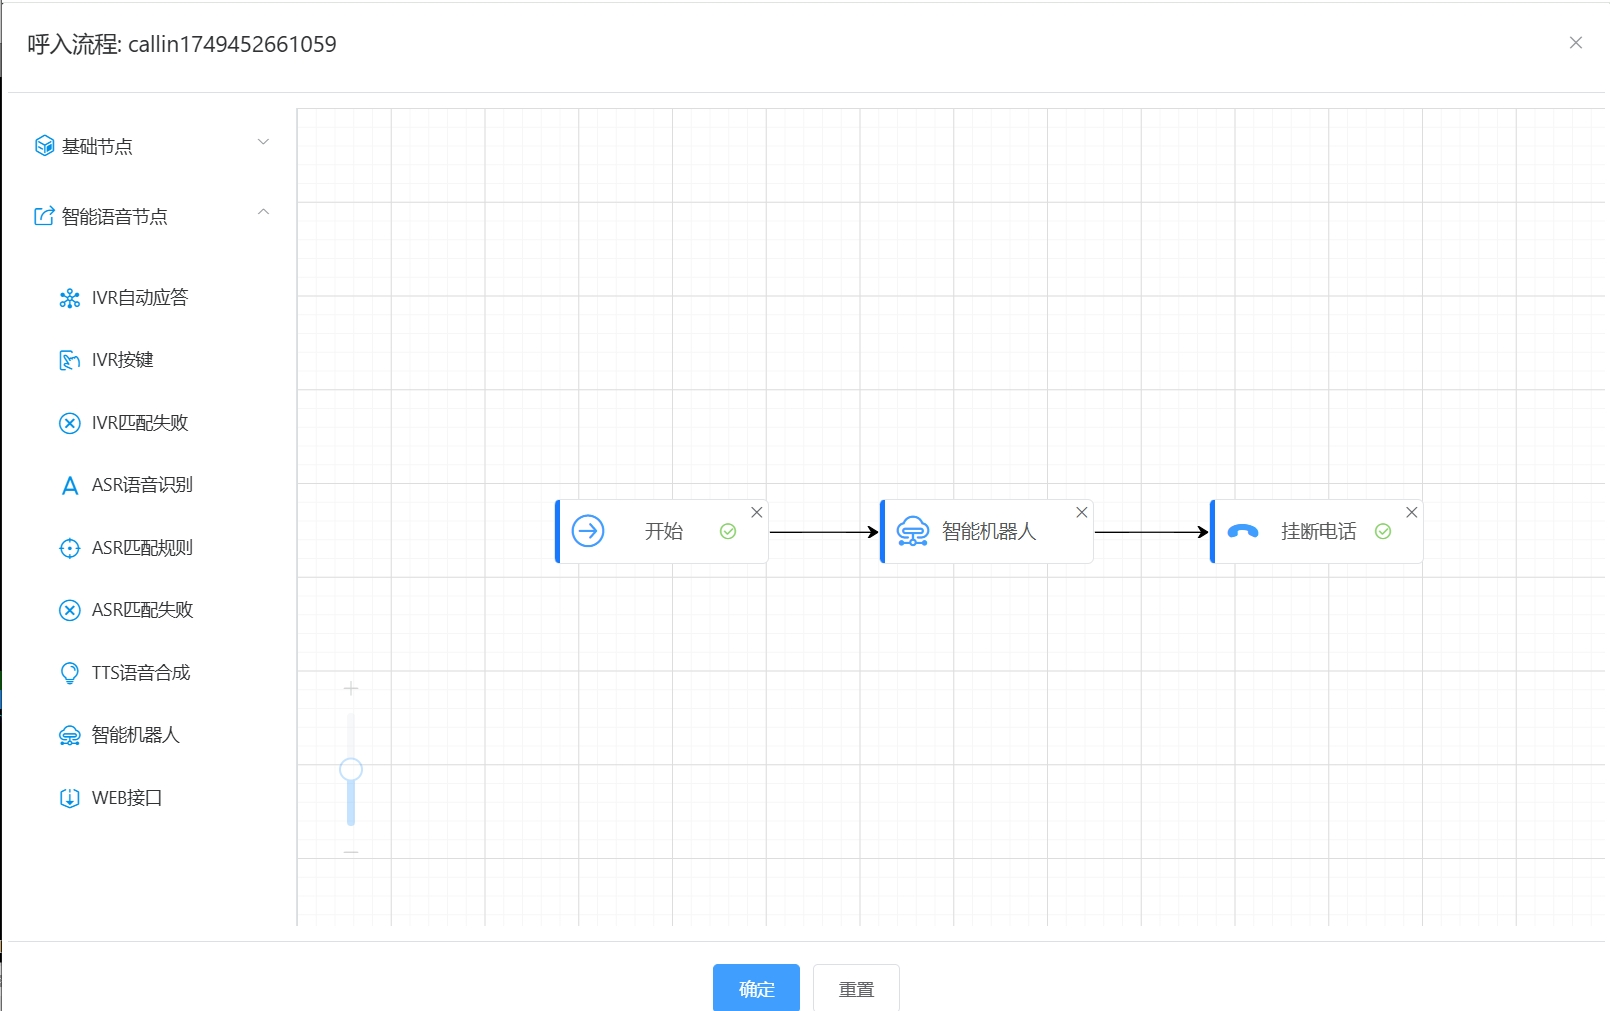
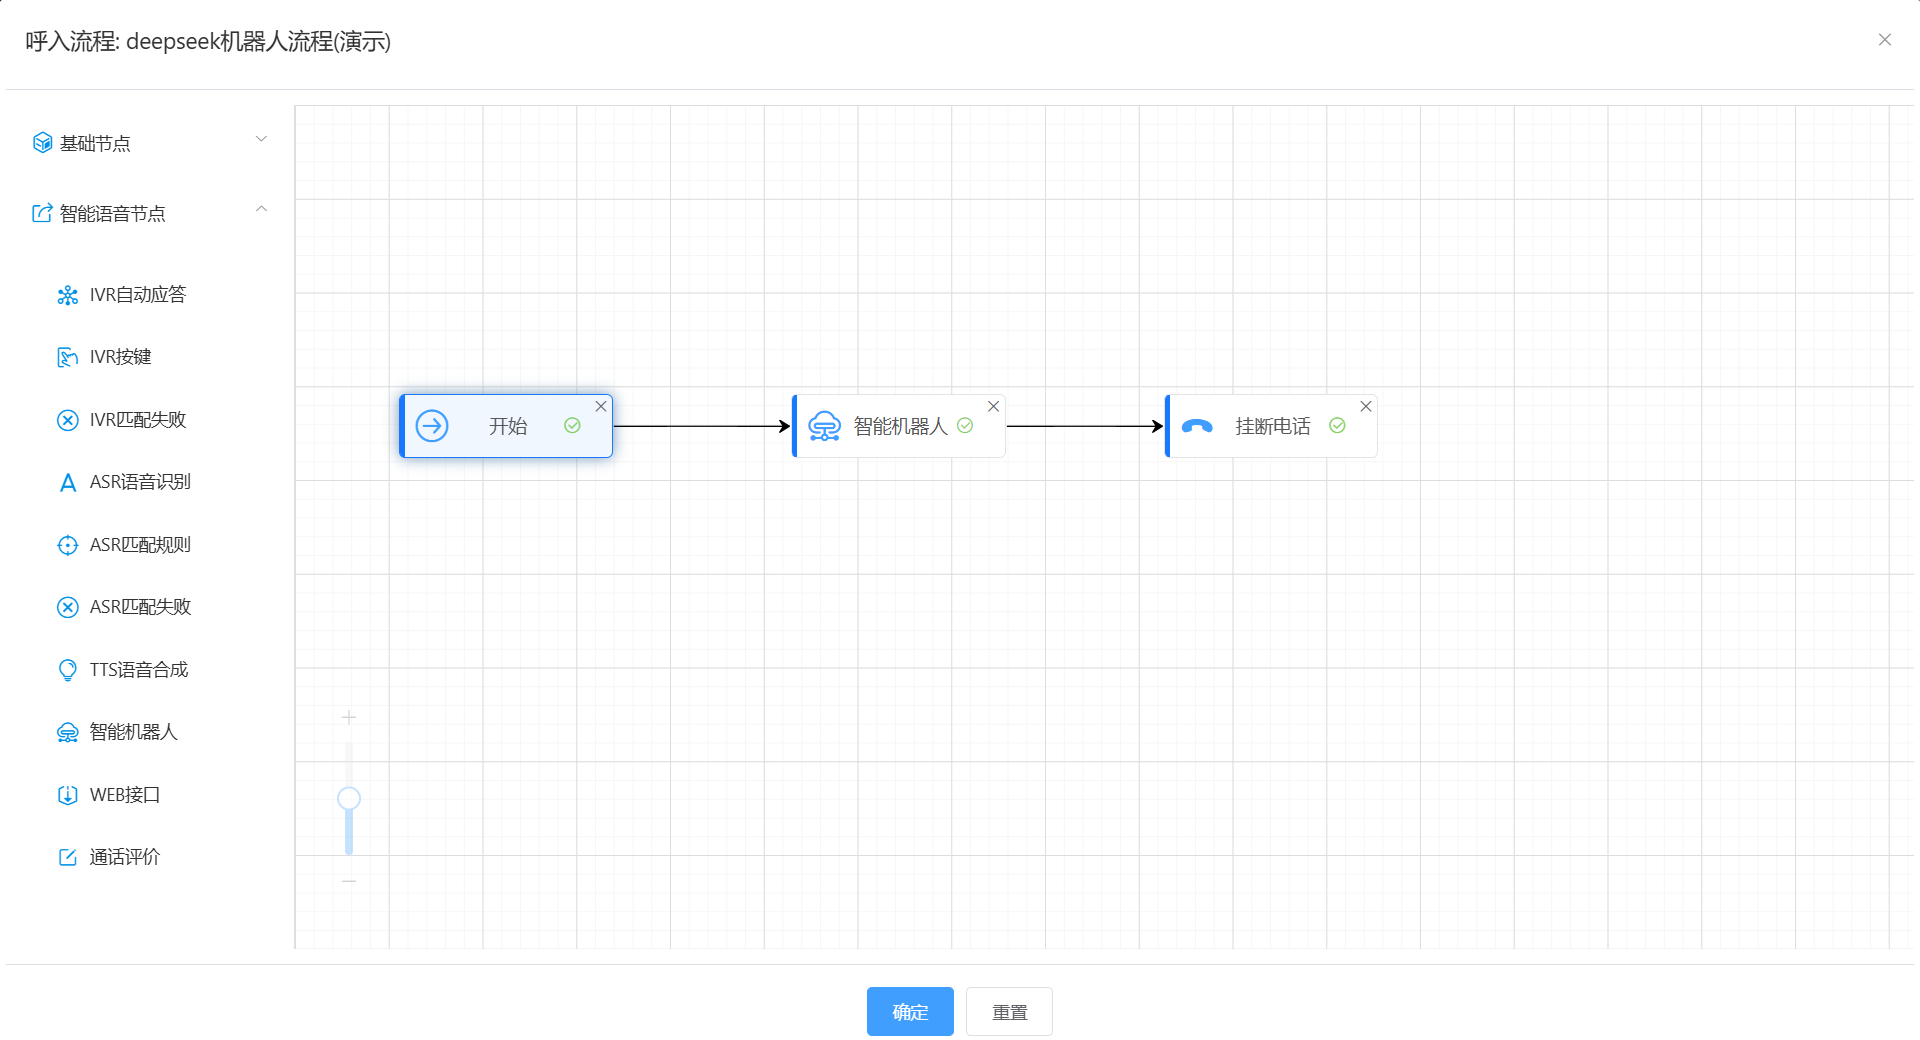
增加智能外呼等功能

diff --git a/README.en.md b/README.en.md
@@ -1,32 +1,33 @@
 # pcswitch
 
-####Introduction
+#### Introduction
 
--PCSwitch call system, permanently free to use, supports intelligent robots (using Deepseek interface), web interface (accessing other systems), ASR (speech recognition), TTS (speech synthesis), custom voice robots webRTC、IVR、 Inbound queue, inbound process visualization management, call evaluation, IP whitelist, customizable fields for customer information, and more
--Official website:[ https://www.pcswitch.cn ]( https://www.pcswitch.cn )
--Trial URL:[ https://demo.pcswitch.cn ]( https://demo.pcswitch.cn )
-
-
-####Software Architecture
-
--Front end: using Vue+elementUI
--Backend: Developed using Golang language
--Bottom layer: Adopting Freeswitch and undergoing secondary development
--Data layer: using Redis, Mariadb, and MongoDB
+- PCSwitch call system, permanently free to use, supports intelligent robots (using Deepseek interface), ASR (speech recognition), TTS (speech synthesis), web interface (accessing other systems), webRTC, Visual incoming call process management, voice robots webRTC、IVR、 Inbound queue, inbound process visualization management, call evaluation, IP whitelist, customizable fields for customer information, and more
+- Official website:[ https://www.pcswitch.cn ]( https://www.pcswitch.cn )
+- Trial URL:[ https://demo.pcswitch.cn ]( https://demo.pcswitch.cn )
 
 
-###System functions
+#### Software Architecture
+
+- Front end: using Vue+elementUI
+- Backend: Developed using Golang language
+- Bottom layer: Adopting Freeswitch and undergoing secondary development
+- Data layer: using Redis, Mariadb, and MongoDB
+
+
+### System functions
 1. Support intelligent robots (using Deepseek interface) and web interfaces (accessing other systems)
-2. Supports ASR (speech recognition), TTS (speech synthesis), and customizable speech robots
-3. Supports multiple client types, including webRTC and SIP clients
-4. Support static and dynamic seating
-5. Supports multi tenant mode, the free version is only open to one organization
-6. Support IVR, incoming queue, time judgment, IP whitelist, call evaluation, etc
-7. The incoming call rule adopts visual configuration, which is easy to operate
-8. Support custom customer information, allowing for the addition, reduction, and modification of field information at will
-9. The call record table adopts an automatic sorting design, and a single table can accommodate 20 pieces of data
+2. Support intelligent outbound calls (modular visual management) and batch scheduled outbound calls
+3. Supports ASR (speech recognition), TTS (speech synthesis), and customizable speech robots
+4. Supports multiple client types, including webRTC and SIP clients
+5. Support static and dynamic seating
+6. Supports multi tenant mode, the free version is only open to one organization
+7. Support IVR, incoming queue, time judgment, IP whitelist, call evaluation, automatic addition of 0 to remote numbers, etc
+8. The incoming call rule adopts modular visual configuration, which is easy to operate
+9. Support custom customer information, allowing for the addition, reduction, and modification of field information at will
+10. The call record table adopts an automatic sorting design, and a single table can accommodate 2 billion pieces of data
 
-####Installation tutorial
+#### Installation tutorial
 1. The installation package download address is: https://pan.baidu.com/s/1ZvH6sjthjIcqa2Ygx76N8A?pwd=6t59
 2. It is recommended to install using CentOS or Rocky operating systems
 3. Download the pcswitch installation package
@@ -55,7 +56,7 @@ The certificate storage path is: data/core/credits
 Delete dtls strp.pem and wss.tem
 Merge the certificate key and CRT into: wss.tem, and store it in the data/core/credits directory as follows:
 #cat server.key server.crt > wss.pem
-Restart the service
+Restart service
 #. /pcs_cli restart core
 
 ```
@@ -69,30 +70,31 @@ At present, only Alibaba Cloud Intelligent Voice has been connected, and Alibaba
 11. Intelligent robots
 The intelligent robot adopts the Deepseek interface. However, due to the lack of stream mode and the relatively long return time of Deepseek, the intelligent robot currently needs to wait for some time during conversations. It is recommended to use private deployment of DeepSeek for production environments, while training models for specific environments.
 
-####Instructions for use
+#### Instructions for use
 
 1. This version is a free version, and the system has been initialized and configured after installation, including 3 extensions, etc
 2. The system defaults to using private certificates, which users can replace with official certificates
 3. The system does not have a gateway configured by default, and users need to configure the gateway themselves
 4. Default account/password: admin/a2f55ef976bcf8b0ae
 
-####System Display
+#### System Display
 1. Login interface
-! [Enter image description] (images/20250411153349. png)
+![Enter image description](images/logon.png)
 2. WebRTC registration
-! [Enter image description] (images/20250411153431. png)
+![Enter image description](images/front.png)
 3. Pop up screen for incoming calls
-! [Enter image description] (images/20250713. png)
+![Enter image description](images/ringing.png)
 4. Backend management
-! [Enter image description] (images/20250516132532. png)
+![Enter image description](images/backend.png)
 5. Visualization configuration of incoming call rules
-! [Enter image description] (images/20250516132751. png)
+![Enter image description](images/base.png)
 6. ASR and TTS processes
-! [Enter image description] (images/asrttspng)
+![Enter image description](images/asrtts.png)
 7. Intelligent robots
-! [Enter image description] (images/robot. png)
-8. Web interface
-! [Enter image description] (images/web. png)
+![Enter image description](images/robot.png)
+8. Intelligent outbound call
+![Enter image description](images/intellcallout.png)
+![Enter image description](images/intellcalloutflow.png)
 
 ####Problem feedback
 

diff --git a/README.md b/README.md
@@ -2,7 +2,7 @@
 
 #### 介绍
 
-- pcswitch呼叫系统，永久免费使用，支持智能机器人(采用deepseek接口)、web接口(访问其他系统)、ASR(语音识别)、TTS(语音合成)、自定义语音机器人、webRTC、IVR、呼入队列、呼入流程可视化管理、通话评价、IP白名单、客户资料可自定义字段等等
+- pcswitch呼叫系统，永久免费使用，支持智能机器人(采用deepseek接口),ASR(语音识别),TTS(语音合成),web接口(访问其他系统),webRTC,可视化呼入流程管理,语音机器人、webRTC、IVR、呼入队列、呼入流程可视化管理、通话评价、IP白名单、客户资料可自定义字段等等
 - 官网：[https://www.pcswitch.cn](https://www.pcswitch.cn)
 - 试用网址：[https://demo.pcswitch.cn](https://demo.pcswitch.cn)
 
@@ -17,14 +17,15 @@
 
 ### 系统功能
 1. 支持智能机器人(采用deepseek接口)、web接口(访问其他系统)
-2. 支持ASR(语音识别)、TTS(语音合成)，可自定义语音机器人
-3. 支持多种客户端类型，包括：webRTC、sip客户端
-4. 支持静态坐席、动态坐席
-5. 支持多租户模式，免费版本只开放了1个组织
-6. 支持IVR、呼入队列、时间判断、IP白名单、通话评价等
-7. 呼入规则采用可视化配置，操作方便
-8. 支持自定义客户信息，可随意增加、减少、修改字段信息
-9. 通话记录表采用了自动分表设计，单表可容纳20条数据
+2. 支持智能外呼(模块化可视化管理)、批量定时外呼
+3. 支持ASR(语音识别)、TTS(语音合成)，可自定义语音机器人
+4. 支持多种客户端类型，包括：webRTC、sip客户端
+5. 支持静态坐席、动态坐席
+6. 支持多租户模式，免费版本只开放了1个组织
+7. 支持IVR、呼入队列、时间判断、IP白名单、通话评价、异地号码自动加拨0等
+8. 呼入规则采用模块化可视化配置，操作方便
+9. 支持自定义客户信息，可随意增加、减少、修改字段信息
+10. 通话记录表采用了自动分表设计，单表可容纳20亿条数据
 
 #### 安装教程
 1. 安装包下载地址为：https://pan.baidu.com/s/1ZvH6sjthjIcqa2Ygx76N8A?pwd=6t59
@@ -78,21 +79,22 @@
 
 #### 系统展示
 1. 登录界面
-![输入图片说明](images/20250411153349.png)
+![输入图片说明](images/logon.png)
 2. webRTC注册
-![输入图片说明](images/20250411153431.png)
+![输入图片说明](images/front.png)
 3.来电弹屏
-![输入图片说明](images/20250713.png)
+![输入图片说明](images/ringing.png)
 4. 后台管理
-![输入图片说明](images/20250516132532.png)
+![输入图片说明](images/backend.png)
 5. 呼入规则可视化配置
-![输入图片说明](images/20250516132751.png)
+![输入图片说明](images/base.png)
 6. ASR、TTS流程
 ![输入图片说明](images/asrtts.png)
 7. 智能机器人
 ![输入图片说明](images/robot.png)
-8. web接口
-![输入图片说明](images/web.png)
+8. 智能外呼
+![输入图片说明](images/intellcallout.png)
+![输入图片说明](images/intellcalloutflow.png)
 
 #### 问题反馈
 
